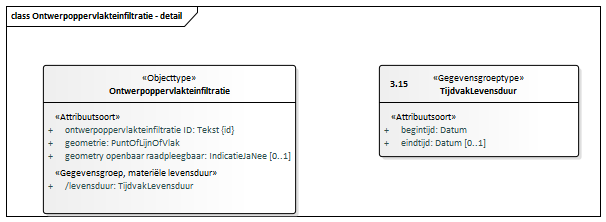
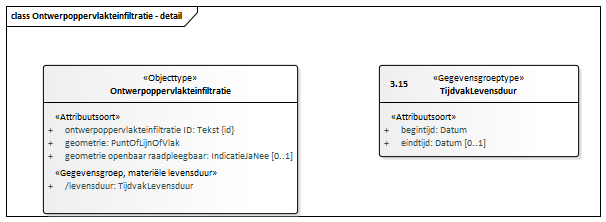
Conceptualmodel-GrondwatergebruikGUFconceptueel-0.992-3-20210628-20220314-111917

Changed region(s): [[0.1485, 0.2973, 0.505, 0.973], [0.1782, 0.3243, 0.3861, 0.4324]]

diff --git a/data/GUF-cat.msword.html b/data/GUF-cat.msword.html
@@ -15,7 +15,7 @@
    <body>
       <p>Conceptual model/Grondwatergebruik (GUF) conceptueel/20210628</p>
       <p>Imvertor: 1.65.4</p>
-      <p>Model release: Conceptualmodel-GrondwatergebruikGUFconceptueel-0.992-3-20210628-20220314-110654</p>
+      <p>Model release: Conceptualmodel-GrondwatergebruikGUFconceptueel-0.992-3-20210628-20220314-111917</p>
       <hr>
       <section>
          <h1>Artikel 1 Definitie van registratieobject, entiteiten en attributen</h1>
@@ -63,7 +63,7 @@
          <section>
             <h2>Het domeinmodel</h2>
             <section id="">
-               <div class="imageinfo overview"><img src="Images/EAID_56F5F935_4109_4da0_A034_9EA7B40769E1.png" usemap="#imagemap-EAID_56F5F935_4109_4da0_A034_9EA7B40769E1" alt="Diagram &#xA;                        &#xA;                     "><map name="imagemap-EAID_56F5F935_4109_4da0_A034_9EA7B40769E1"><area shape="rect" alt="Verkenning" coords="902,1052,1134,1132" href="#graph_EAID_1013D8B2_A4E7_456c_B8BD_D8785259B572"><area shape="rect" alt="Gerealiseerde bodemlus" coords="712,765,932,928" href="#graph_EAID_D45703EE_CCD5_434c_A478_BFA48D1A9DCB"><area shape="rect" alt="Gerealiseerde oppervlakteinfiltratie" coords="939,765,1195,927" href="#graph_EAID_8F717FBD_49AE_47b7_80F3_B91D0A2E3D0C"><area shape="rect" alt="Ontwerpoppervlakteinfiltratie" coords="311,962,564,1110" href="#graph_EAID_48E92D7E_DFE4_4e1a_9CBF_EF96B0324D5C"><area shape="rect" alt="Ontwerpbodemlus" coords="89,962,305,1110" href="#graph_EAID_B81BCB5C_B9C7_42d9_9F9E_3F76580BB410"><area shape="rect" alt="Ontwerpput" coords="563,962,856,1215" href="#graph_EAID_FC483397_9430_4114_AE54_A7BE5A654EA9"><area shape="rect" alt="Gerealiseerde installatie" coords="1059,527,1399,705" href="#graph_EAID_45C4EF5D_AC27_47cc_926D_7F514776B53D"><area shape="rect" alt="Gerealiseerde filter" coords="1221,1049,1525,1263" href="#graph_EAID_9D151445_53ED_4738_9920_071518BB50C1"><area shape="rect" alt="Recht grondwatergebruik" coords="303,390,639,544" href="#graph_EAID_1A591F8A_2ECC_4122_86C9_26BFA5C5420E"><area shape="rect" alt="Gerealiseerde put" coords="1203,765,1485,996" href="#graph_EAID_F75BA1C9_02EB_48e6_B9A8_A018120E2279"><area shape="rect" alt="Ontwerpinstallatie" coords="273,632,629,819" href="#graph_EAID_DB2636FB_090C_4af0_AA40_4301B23795E2"><area shape="rect" alt="Grondwatergebruiksysteem" coords="714,222,1017,483" href="#graph_EAID_048DC684_486B_4605_B9CA_40413DB3C9DC"><area shape="rect" alt="Registratieobject" coords="788,113,907,156" href="#graph_EAID_2AC7632D_D0CE_4468_8510_855B506BE12A"></map><p><b>Domeinmodel GUF conceptueel</b></p>
+               <div class="imageinfo overview"><img src="Images/EAID_56F5F935_4109_4da0_A034_9EA7B40769E1.png" usemap="#imagemap-EAID_56F5F935_4109_4da0_A034_9EA7B40769E1" alt="Diagram &#xA;                        &#xA;                     "><map name="imagemap-EAID_56F5F935_4109_4da0_A034_9EA7B40769E1"><area shape="rect" alt="Verkenning" coords="848,986,1080,1066" href="#graph_EAID_1013D8B2_A4E7_456c_B8BD_D8785259B572"><area shape="rect" alt="Gerealiseerde bodemlus" coords="658,699,878,862" href="#graph_EAID_D45703EE_CCD5_434c_A478_BFA48D1A9DCB"><area shape="rect" alt="Gerealiseerde oppervlakteinfiltratie" coords="885,699,1141,861" href="#graph_EAID_8F717FBD_49AE_47b7_80F3_B91D0A2E3D0C"><area shape="rect" alt="Ontwerpoppervlakteinfiltratie" coords="257,896,512,1044" href="#graph_EAID_48E92D7E_DFE4_4e1a_9CBF_EF96B0324D5C"><area shape="rect" alt="Ontwerpbodemlus" coords="35,896,251,1044" href="#graph_EAID_B81BCB5C_B9C7_42d9_9F9E_3F76580BB410"><area shape="rect" alt="Ontwerpput" coords="527,896,820,1149" href="#graph_EAID_FC483397_9430_4114_AE54_A7BE5A654EA9"><area shape="rect" alt="Gerealiseerde installatie" coords="1005,461,1345,639" href="#graph_EAID_45C4EF5D_AC27_47cc_926D_7F514776B53D"><area shape="rect" alt="Gerealiseerde filter" coords="1167,983,1471,1197" href="#graph_EAID_9D151445_53ED_4738_9920_071518BB50C1"><area shape="rect" alt="Recht grondwatergebruik" coords="249,324,585,478" href="#graph_EAID_1A591F8A_2ECC_4122_86C9_26BFA5C5420E"><area shape="rect" alt="Gerealiseerde put" coords="1149,699,1431,930" href="#graph_EAID_F75BA1C9_02EB_48e6_B9A8_A018120E2279"><area shape="rect" alt="Ontwerpinstallatie" coords="219,566,575,753" href="#graph_EAID_DB2636FB_090C_4af0_AA40_4301B23795E2"><area shape="rect" alt="Grondwatergebruiksysteem" coords="660,156,963,417" href="#graph_EAID_048DC684_486B_4605_B9CA_40413DB3C9DC"><area shape="rect" alt="Registratieobject" coords="734,47,853,90" href="#graph_EAID_2AC7632D_D0CE_4468_8510_855B506BE12A"></map><p><b>Domeinmodel GUF conceptueel</b></p>
                </div>
             </section>
          </section>
@@ -1861,7 +1861,7 @@
                   </section>
                </section><a class="anchor" id="graph_EAID_48E92D7E_DFE4_4e1a_9CBF_EF96B0324D5C"></a><a class="anchor" id="global_class_Model_Ontwerpoppervlakteinfiltratie"></a><section id="global_class_Model_Ontwerpoppervlakteinfiltratie">
                   <h3>   Ontwerpoppervlakteinfiltratie</h3>
-                  <div class="imageinfo "><img src="Images/EAID_9A38E556_5C70_474e_9BA3_7FC8379A3955.png" usemap="#imagemap-EAID_9A38E556_5C70_474e_9BA3_7FC8379A3955" alt="Diagram "><map name="imagemap-EAID_9A38E556_5C70_474e_9BA3_7FC8379A3955"><area shape="rect" alt="TijdvakLevensduur" coords="379,65,579,157" href="#graph_EAID_7C14BEF4_6FA0_4e19_9FB4_DFDD995B1187"><area shape="rect" alt="Ontwerpoppervlakteinfiltratie" coords="43,65,296,214" href="#graph_EAID_48E92D7E_DFE4_4e1a_9CBF_EF96B0324D5C"></map><p><b></b></p>
+                  <div class="imageinfo "><img src="Images/EAID_9A38E556_5C70_474e_9BA3_7FC8379A3955.png" usemap="#imagemap-EAID_9A38E556_5C70_474e_9BA3_7FC8379A3955" alt="Diagram "><map name="imagemap-EAID_9A38E556_5C70_474e_9BA3_7FC8379A3955"><area shape="rect" alt="TijdvakLevensduur" coords="379,65,579,157" href="#graph_EAID_7C14BEF4_6FA0_4e19_9FB4_DFDD995B1187"><area shape="rect" alt="Ontwerpoppervlakteinfiltratie" coords="43,65,298,214" href="#graph_EAID_48E92D7E_DFE4_4e1a_9CBF_EF96B0324D5C"></map><p><b></b></p>
                   </div>
                   <table style="width: 100%;">
                      <colgroup style="width: 30%;"></colgroup>
@@ -1995,8 +1995,8 @@
                            </tr>
                         </tbody>
                      </table>
-                     </section><a class="anchor" id="detail_attribute_Model_Ontwerpoppervlakteinfiltratie_geometryopenbaarraadpleegbaar"></a><section id="detail_attribute_Model_Ontwerpoppervlakteinfiltratie_geometryopenbaarraadpleegbaar">
-                     <h4>  geometry openbaar raadpleegbaar</h4>
+                     </section><a class="anchor" id="detail_attribute_Model_Ontwerpoppervlakteinfiltratie_geometrieopenbaarraadpleegbaar"></a><section id="detail_attribute_Model_Ontwerpoppervlakteinfiltratie_geometrieopenbaarraadpleegbaar">
+                     <h4>  geometrie openbaar raadpleegbaar</h4>
                      
                      <table style="width: 100%;">
                         <colgroup style="width: 30%;"></colgroup>

diff --git a/data/GUF-cat.respec.html b/data/GUF-cat.respec.html
@@ -41,7 +41,7 @@
       </section>
    <section id="">
       <h2>Het domeinmodel   </h2>
-      <div class="imageinfo overview"><img src="data/Images/EAID_56F5F935_4109_4da0_A034_9EA7B40769E1.png" usemap="#imagemap-EAID_56F5F935_4109_4da0_A034_9EA7B40769E1" alt="Diagram &#xA;                        &#xA;                     "><map name="imagemap-EAID_56F5F935_4109_4da0_A034_9EA7B40769E1"><area shape="rect" alt="Verkenning" coords="902,1052,1134,1132" href="#graph_EAID_1013D8B2_A4E7_456c_B8BD_D8785259B572"><area shape="rect" alt="Gerealiseerde bodemlus" coords="712,765,932,928" href="#graph_EAID_D45703EE_CCD5_434c_A478_BFA48D1A9DCB"><area shape="rect" alt="Gerealiseerde oppervlakteinfiltratie" coords="939,765,1195,927" href="#graph_EAID_8F717FBD_49AE_47b7_80F3_B91D0A2E3D0C"><area shape="rect" alt="Ontwerpoppervlakteinfiltratie" coords="311,962,564,1110" href="#graph_EAID_48E92D7E_DFE4_4e1a_9CBF_EF96B0324D5C"><area shape="rect" alt="Ontwerpbodemlus" coords="89,962,305,1110" href="#graph_EAID_B81BCB5C_B9C7_42d9_9F9E_3F76580BB410"><area shape="rect" alt="Ontwerpput" coords="563,962,856,1215" href="#graph_EAID_FC483397_9430_4114_AE54_A7BE5A654EA9"><area shape="rect" alt="Gerealiseerde installatie" coords="1059,527,1399,705" href="#graph_EAID_45C4EF5D_AC27_47cc_926D_7F514776B53D"><area shape="rect" alt="Gerealiseerde filter" coords="1221,1049,1525,1263" href="#graph_EAID_9D151445_53ED_4738_9920_071518BB50C1"><area shape="rect" alt="Recht grondwatergebruik" coords="303,390,639,544" href="#graph_EAID_1A591F8A_2ECC_4122_86C9_26BFA5C5420E"><area shape="rect" alt="Gerealiseerde put" coords="1203,765,1485,996" href="#graph_EAID_F75BA1C9_02EB_48e6_B9A8_A018120E2279"><area shape="rect" alt="Ontwerpinstallatie" coords="273,632,629,819" href="#graph_EAID_DB2636FB_090C_4af0_AA40_4301B23795E2"><area shape="rect" alt="Grondwatergebruiksysteem" coords="714,222,1017,483" href="#graph_EAID_048DC684_486B_4605_B9CA_40413DB3C9DC"><area shape="rect" alt="Registratieobject" coords="788,113,907,156" href="#graph_EAID_2AC7632D_D0CE_4468_8510_855B506BE12A"></map><p><b>Domeinmodel GUF conceptueel</b></p>
+      <div class="imageinfo overview"><img src="data/Images/EAID_56F5F935_4109_4da0_A034_9EA7B40769E1.png" usemap="#imagemap-EAID_56F5F935_4109_4da0_A034_9EA7B40769E1" alt="Diagram &#xA;                        &#xA;                     "><map name="imagemap-EAID_56F5F935_4109_4da0_A034_9EA7B40769E1"><area shape="rect" alt="Verkenning" coords="848,986,1080,1066" href="#graph_EAID_1013D8B2_A4E7_456c_B8BD_D8785259B572"><area shape="rect" alt="Gerealiseerde bodemlus" coords="658,699,878,862" href="#graph_EAID_D45703EE_CCD5_434c_A478_BFA48D1A9DCB"><area shape="rect" alt="Gerealiseerde oppervlakteinfiltratie" coords="885,699,1141,861" href="#graph_EAID_8F717FBD_49AE_47b7_80F3_B91D0A2E3D0C"><area shape="rect" alt="Ontwerpoppervlakteinfiltratie" coords="257,896,512,1044" href="#graph_EAID_48E92D7E_DFE4_4e1a_9CBF_EF96B0324D5C"><area shape="rect" alt="Ontwerpbodemlus" coords="35,896,251,1044" href="#graph_EAID_B81BCB5C_B9C7_42d9_9F9E_3F76580BB410"><area shape="rect" alt="Ontwerpput" coords="527,896,820,1149" href="#graph_EAID_FC483397_9430_4114_AE54_A7BE5A654EA9"><area shape="rect" alt="Gerealiseerde installatie" coords="1005,461,1345,639" href="#graph_EAID_45C4EF5D_AC27_47cc_926D_7F514776B53D"><area shape="rect" alt="Gerealiseerde filter" coords="1167,983,1471,1197" href="#graph_EAID_9D151445_53ED_4738_9920_071518BB50C1"><area shape="rect" alt="Recht grondwatergebruik" coords="249,324,585,478" href="#graph_EAID_1A591F8A_2ECC_4122_86C9_26BFA5C5420E"><area shape="rect" alt="Gerealiseerde put" coords="1149,699,1431,930" href="#graph_EAID_F75BA1C9_02EB_48e6_B9A8_A018120E2279"><area shape="rect" alt="Ontwerpinstallatie" coords="219,566,575,753" href="#graph_EAID_DB2636FB_090C_4af0_AA40_4301B23795E2"><area shape="rect" alt="Grondwatergebruiksysteem" coords="660,156,963,417" href="#graph_EAID_048DC684_486B_4605_B9CA_40413DB3C9DC"><area shape="rect" alt="Registratieobject" coords="734,47,853,90" href="#graph_EAID_2AC7632D_D0CE_4468_8510_855B506BE12A"></map><p><b>Domeinmodel GUF conceptueel</b></p>
       </div>
    </section>
    <section id="">
@@ -1837,7 +1837,7 @@
          </section>
       </section><a class="anchor" id="graph_EAID_48E92D7E_DFE4_4e1a_9CBF_EF96B0324D5C"></a><a class="anchor" id="global_class_Model_Ontwerpoppervlakteinfiltratie"></a><section id="global_class_Model_Ontwerpoppervlakteinfiltratie">
          <h3>   Ontwerpoppervlakteinfiltratie</h3>
-         <div class="imageinfo "><img src="data/Images/EAID_9A38E556_5C70_474e_9BA3_7FC8379A3955.png" usemap="#imagemap-EAID_9A38E556_5C70_474e_9BA3_7FC8379A3955" alt="Diagram "><map name="imagemap-EAID_9A38E556_5C70_474e_9BA3_7FC8379A3955"><area shape="rect" alt="TijdvakLevensduur" coords="379,65,579,157" href="#graph_EAID_7C14BEF4_6FA0_4e19_9FB4_DFDD995B1187"><area shape="rect" alt="Ontwerpoppervlakteinfiltratie" coords="43,65,296,214" href="#graph_EAID_48E92D7E_DFE4_4e1a_9CBF_EF96B0324D5C"></map><p><b></b></p>
+         <div class="imageinfo "><img src="data/Images/EAID_9A38E556_5C70_474e_9BA3_7FC8379A3955.png" usemap="#imagemap-EAID_9A38E556_5C70_474e_9BA3_7FC8379A3955" alt="Diagram "><map name="imagemap-EAID_9A38E556_5C70_474e_9BA3_7FC8379A3955"><area shape="rect" alt="TijdvakLevensduur" coords="379,65,579,157" href="#graph_EAID_7C14BEF4_6FA0_4e19_9FB4_DFDD995B1187"><area shape="rect" alt="Ontwerpoppervlakteinfiltratie" coords="43,65,298,214" href="#graph_EAID_48E92D7E_DFE4_4e1a_9CBF_EF96B0324D5C"></map><p><b></b></p>
          </div>
          <table style="width: 100%;">
             <colgroup style="width: 30%;"></colgroup>
@@ -1971,8 +1971,8 @@
                   </tr>
                </tbody>
             </table>
-            </section><a class="anchor" id="detail_attribute_Model_Ontwerpoppervlakteinfiltratie_geometryopenbaarraadpleegbaar"></a><section id="detail_attribute_Model_Ontwerpoppervlakteinfiltratie_geometryopenbaarraadpleegbaar">
-            <h4>  geometry openbaar raadpleegbaar</h4>
+            </section><a class="anchor" id="detail_attribute_Model_Ontwerpoppervlakteinfiltratie_geometrieopenbaarraadpleegbaar"></a><section id="detail_attribute_Model_Ontwerpoppervlakteinfiltratie_geometrieopenbaarraadpleegbaar">
+            <h4>  geometrie openbaar raadpleegbaar</h4>
             
             <table style="width: 100%;">
                <colgroup style="width: 30%;"></colgroup>
